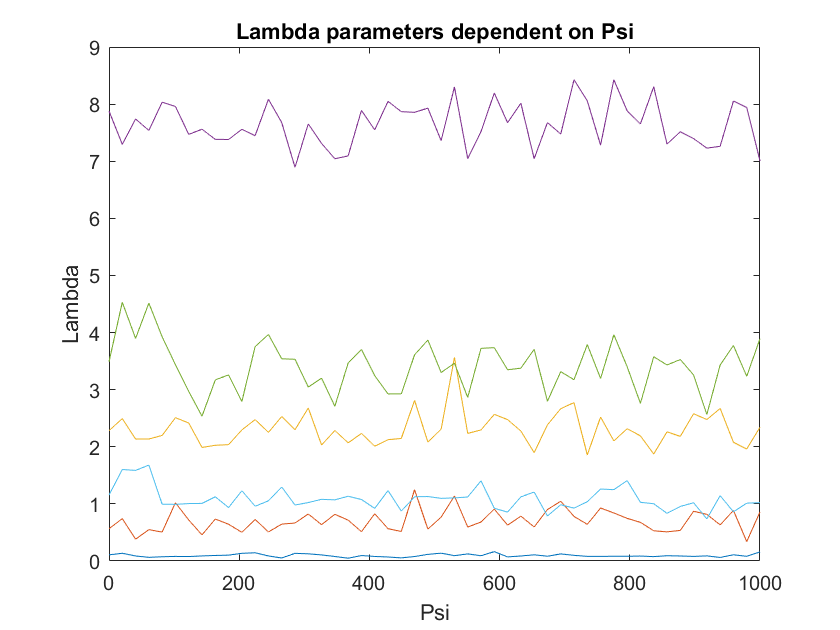
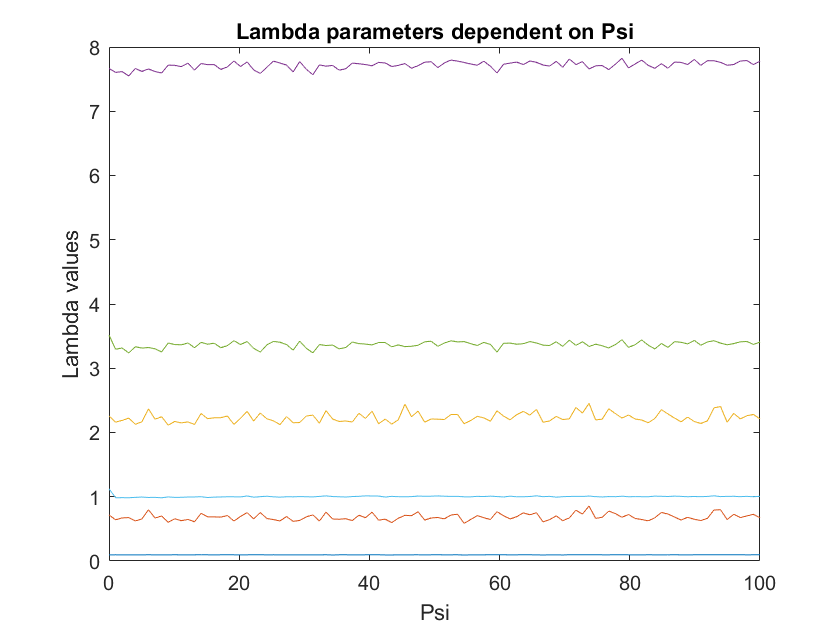
m

diff --git a/HA3/Task1.m b/HA3/Task1.m
@@ -13,7 +13,7 @@ t = linspace(1658, 1980, d+2)';
 % Initialize lambda
 cond_lambda = 5;
     
-steps = 5000;
+steps = 10000;
 accidents = zeros(d+1, 1);
 burn_in = 3000;
 jump = 1;
@@ -21,10 +21,10 @@ t_tracker = zeros(d+2, (steps-burn_in)/jump);
 theta_tracker = zeros(d+1, (steps-burn_in)/jump);
 lambda_tracker = zeros(d+1, (steps-burn_in)/jump);
 
-rhos = linspace(0,0.1,100);%0.055;
+rhos = linspace(0,0.1,100);
 nrhos = length(rhos);
 
-psis = 25;%linspace(0,50,50);
+psis = 80;%linspace(0,100,100);
 npsis = length(psis);
 
 acceptance_rate = zeros(nrhos,npsis);
@@ -84,22 +84,22 @@ acceptance_rate = acceptance_rate./steps;
 close all
 
 figure
-plot(psis, mean(theta_on_psi,2))
-title('Mean theta dependent on Psi')
-ylabel('Mean theta')
+plot(psis, theta_on_psi)
+title('Theta parameters dependent on Psi')
+ylabel('Theta values')
 xlabel('Psi')
 
 figure
 plot(psis, lambda_on_psi)
 title('Lambda parameters dependent on Psi')
-ylabel('Lambda')
+ylabel('Lambda values')
 xlabel('Psi')
 
 
 figure
 plot(psis, meant_on_psi)
-title('Mean t parameters dependent on Psi')
-ylabel('t')
+title('Breakpoints dependent on Psi')
+ylabel('Year')
 xlabel('Psi')
 
 
@@ -112,22 +112,22 @@ xlabel('Psi')
 %% Rho plots
 close all
 figure
-plot(rhos, mean(theta_on_rho,2))
-title('Mean theta dependent on rho')
-ylabel('Mean theta')
+plot(rhos, theta_on_rho)
+title('Theta parameters dependent on rho')
+ylabel('Theta values')
 xlabel('rho')
 
 figure
 plot(rhos, lambda_on_rho)
 title('Lambda parameters dependent on rho')
-ylabel('Lambda')
+ylabel('Lambda values')
 xlabel('rho')
 
 
 figure
 plot(rhos, meant_on_rho)
-title('Mean t parameters dependent on rho')
-ylabel('t')
+title('Breakpoints dependent on rho')
+ylabel('Year')
 xlabel('rho')
 
 figure
@@ -138,6 +138,7 @@ xlabel('Rho')
 
 
 %% MH plots
+
 % Plot the random walks
 figure
 plot(t_tracker')
